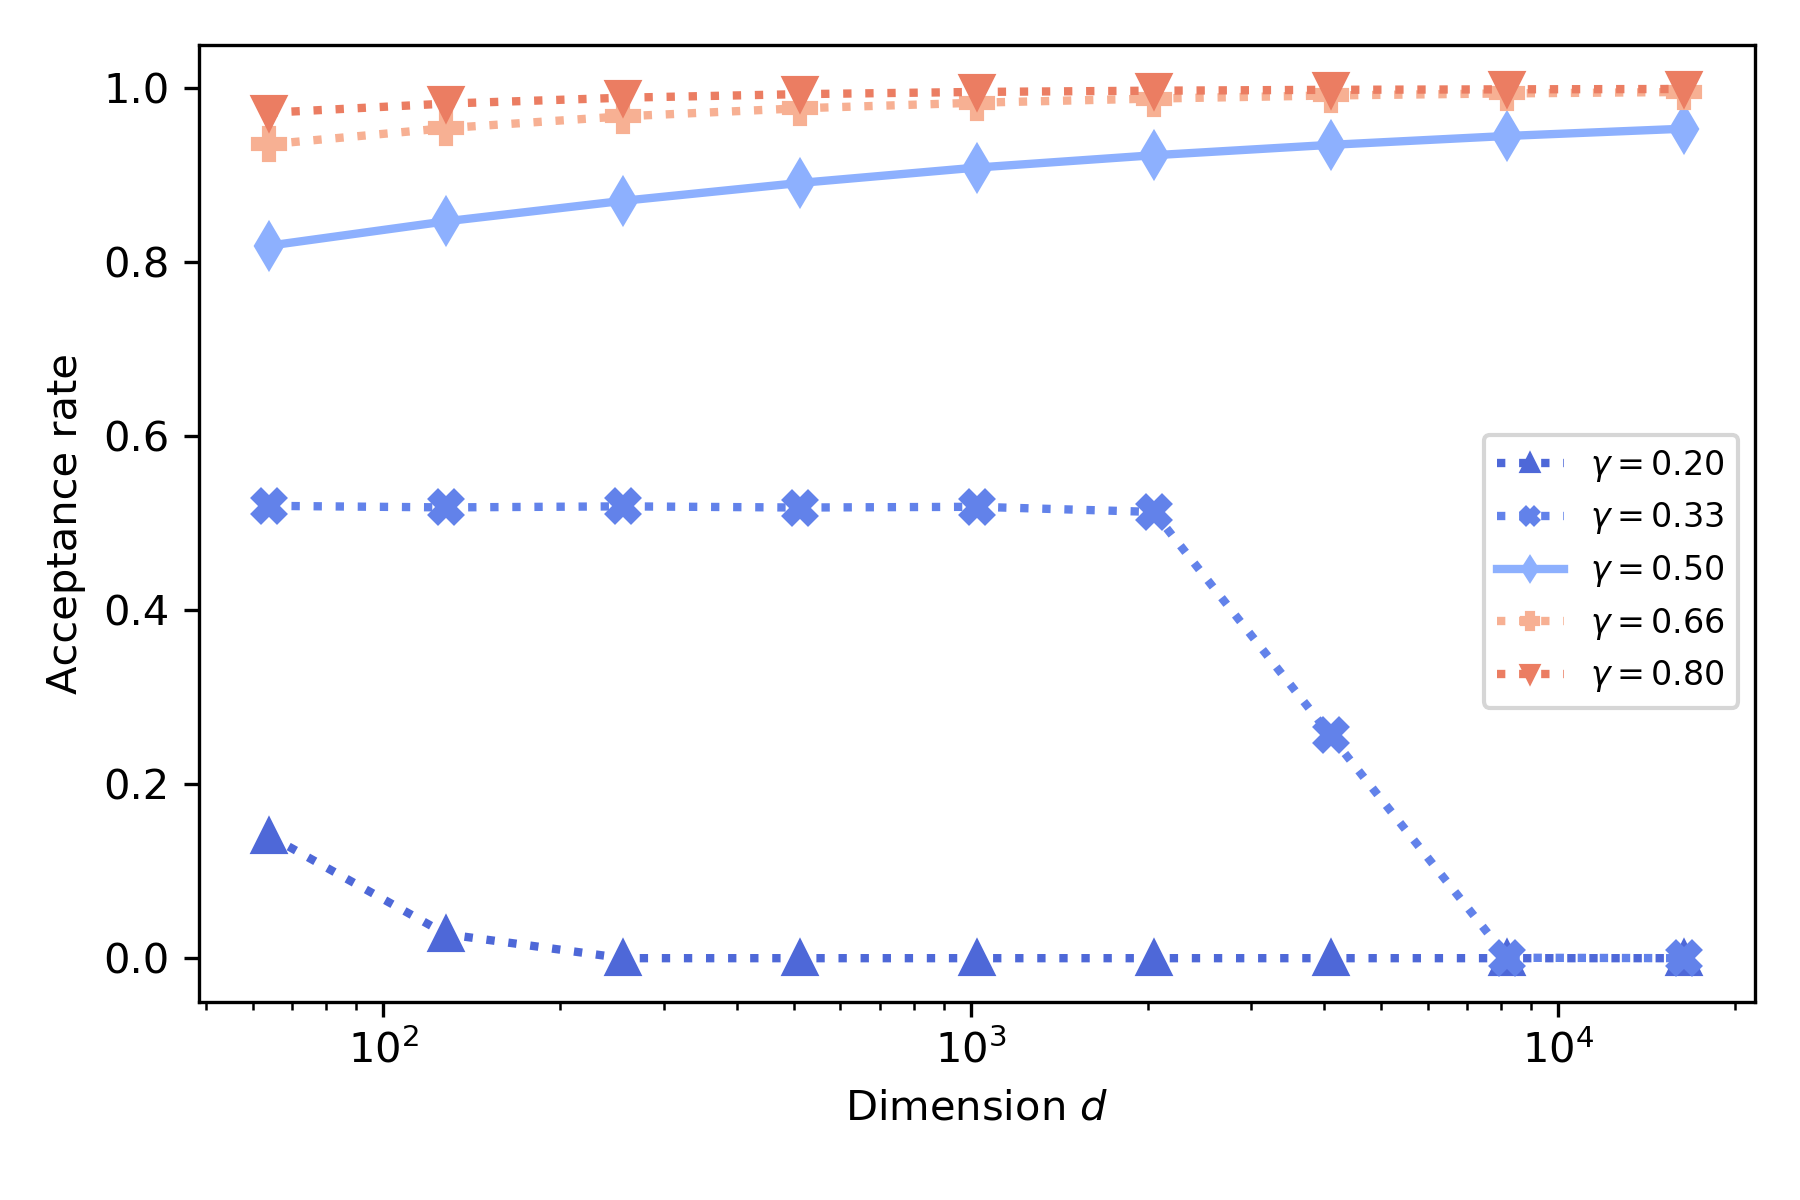
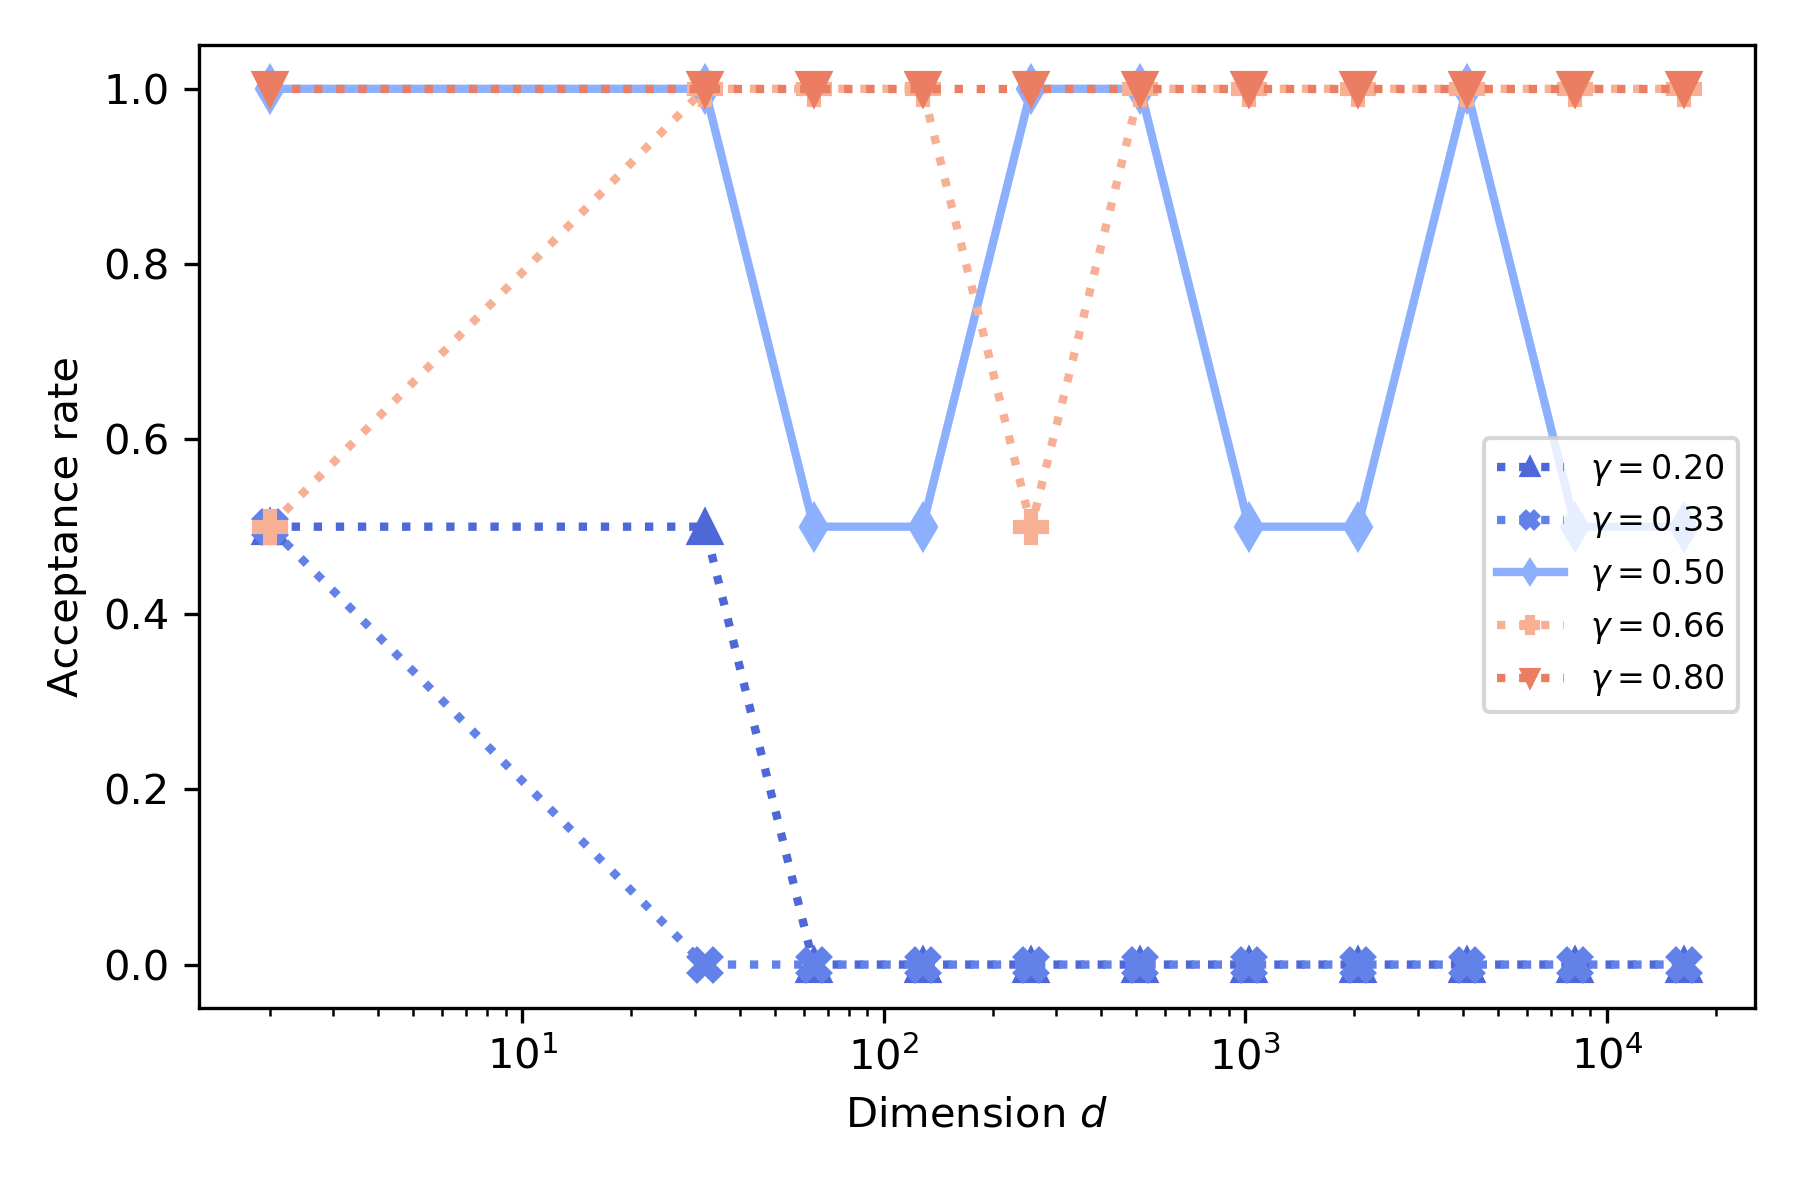
Usage simplified

diff --git a/utils/MALA_only.py b/utils/MALA_only.py
@@ -32,8 +32,8 @@ if __name__ == '__main__':
     parser = get_parser()
     args = parser.parse_args()
 
-    N = 2
-    nb_iters = 2
+    N = 200
+    nb_iters = 20000
     quantile = 0.9
     error = 0.05
 
